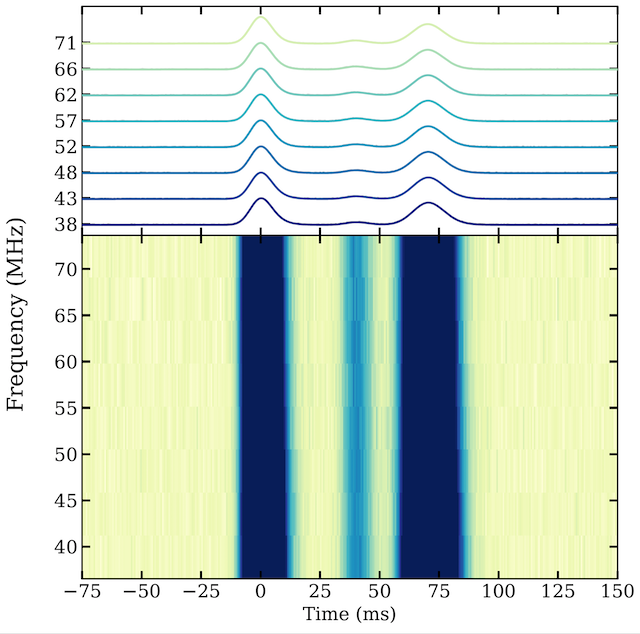
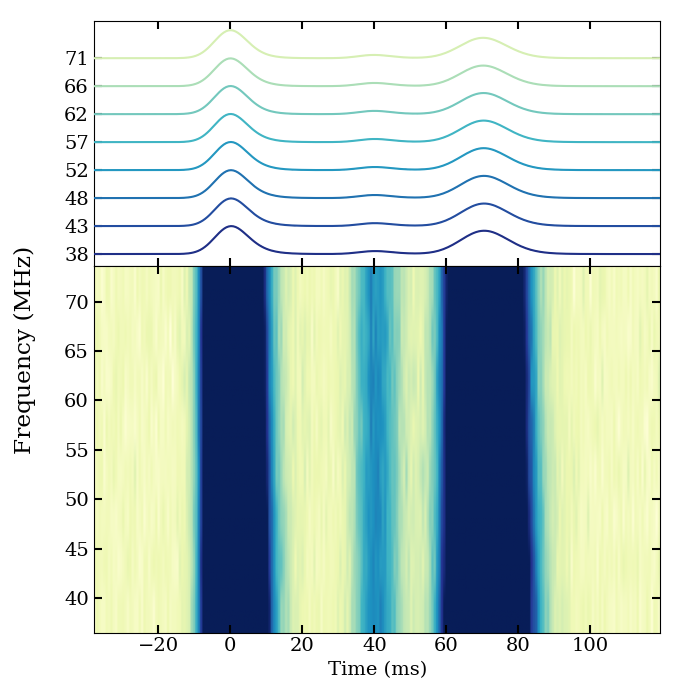
Add more example plots for the multi-component mode and regen.

diff --git a/README.md b/README.md
@@ -129,5 +129,12 @@ The images below show some example output from the program obtained when fitting
 
 ![Fit dynamic spectrum](https://github.com/fjankowsk/scatfit/raw/master/docs/fit_dynamic_spectrum.png "Fit dynamic spectrum")
 
-![Multi-component fit dynamic spectrum](https://github.com/fjankowsk/scatfit/raw/master/docs/multi-comp_fit_dynamic_spectrum.png "Multi-component fit dynamic spectrum")
+Example plots for the multi-component mode are the ones below.
 
+![Multi-component mode profile fit](https://github.com/fjankowsk/scatfit/raw/master/docs/multi-comp_profile_fit.png "Multi-component mode profile fit")
+
+![Multi-component mode dynamic spectrum](https://github.com/fjankowsk/scatfit/raw/master/docs/multi-comp_fit_dynamic_spectrum.png "Multi-component mode dynamic spectrum")
+
+![Multi-component mode width scaling](https://github.com/fjankowsk/scatfit/raw/master/docs/multi-comp_corner.png "Multi-component mode width scaling")
+
+![Multi-component mode corner plot](https://github.com/fjankowsk/scatfit/raw/master/docs/multi-comp_corner.png "Multi-component mode corner plot")
